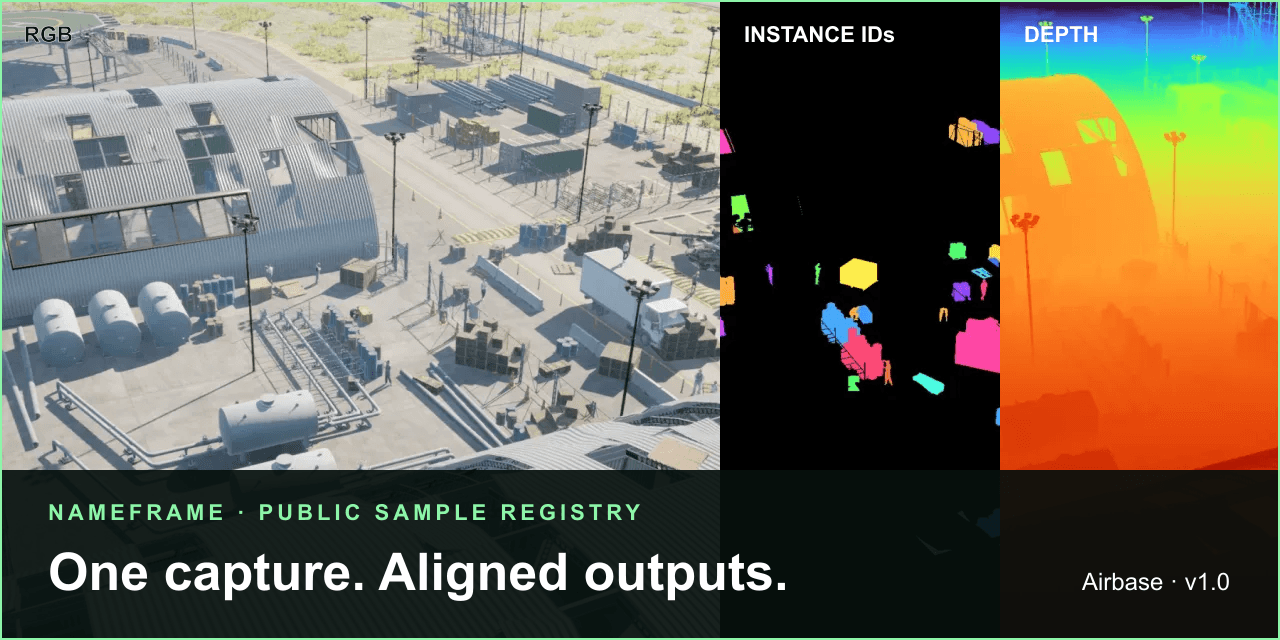
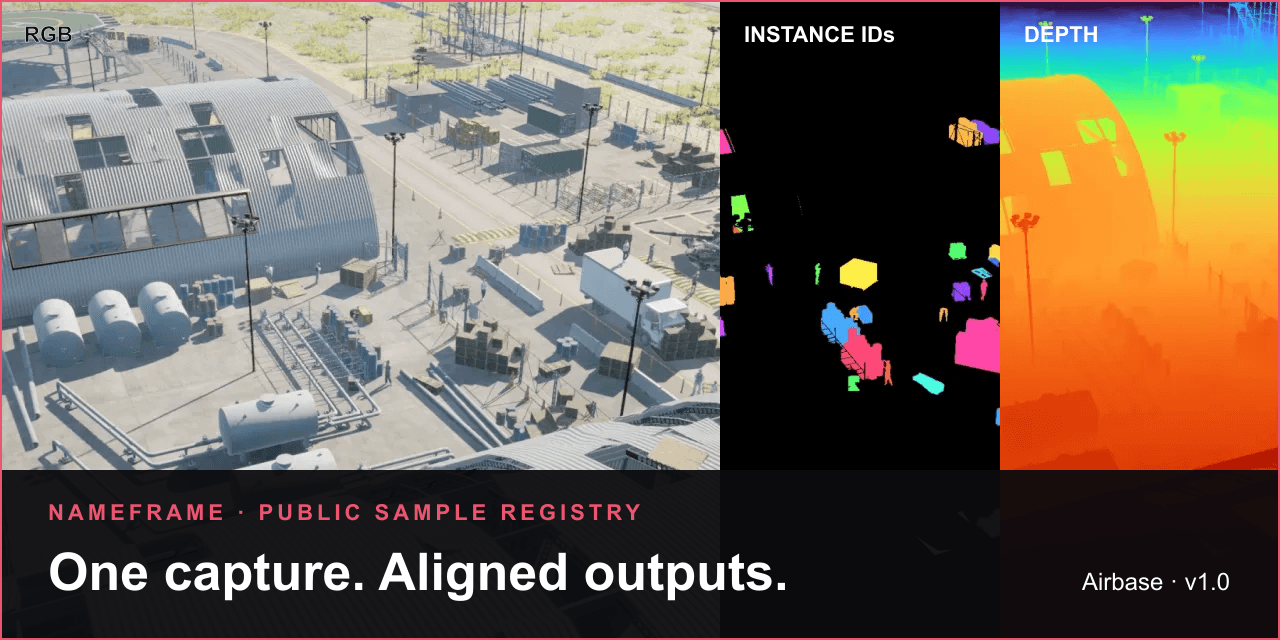
Restore the official NameFrame brand palette

diff --git a/site/src/styles/global.css b/site/src/styles/global.css
@@ -1,28 +1,30 @@
 :root {
-  color-scheme: dark;
-  --ink: #f5f7f2;
-  --muted: #aab5ae;
-  --surface: #0c1713;
-  --surface-2: #12231c;
-  --line: #294238;
-  --accent: #8df5a9;
-  --accent-deep: #173f28;
-  --warning: #ffcb6b;
-  --danger: #ff806e;
+  color-scheme: light;
+  --ink: #16161a;
+  --muted: #5a5a68;
+  --surface: #ffffff;
+  --surface-2: #f7f7f9;
+  --line: #e3e3e9;
+  --accent: #eb5570;
+  --accent-deep: #d63f5d;
+  --accent-soft: #fff0f3;
+  --success: #1f7a4d;
+  --warning: #a96712;
+  --danger: #c9364f;
   --max: 1180px;
   font-family: Inter, ui-sans-serif, system-ui, -apple-system, BlinkMacSystemFont, "Segoe UI", sans-serif;
   font-synthesis: none;
 }
 
 * { box-sizing: border-box; }
-html { background: #08120f; scroll-behavior: smooth; }
-body { margin: 0; background: radial-gradient(circle at 80% 0%, #163126 0, transparent 34rem), #08120f; color: var(--ink); line-height: 1.6; }
+html { background: #ffffff; scroll-behavior: smooth; }
+body { margin: 0; background: radial-gradient(circle at 82% 0%, #fff0f3 0, transparent 35rem), #ffffff; color: var(--ink); line-height: 1.6; }
 img { display: block; max-width: 100%; height: auto; }
 a { color: inherit; text-underline-offset: .18em; }
 a:hover { color: var(--accent); }
 button, a { -webkit-tap-highlight-color: transparent; }
 :focus-visible { outline: 3px solid var(--accent); outline-offset: 4px; border-radius: 3px; }
-.skip-link { position: fixed; z-index: 100; top: .75rem; left: .75rem; padding: .7rem 1rem; background: var(--accent); color: #07110d; transform: translateY(-180%); }
+.skip-link { position: fixed; z-index: 100; top: .75rem; left: .75rem; padding: .7rem 1rem; background: var(--accent); color: #ffffff; transform: translateY(-180%); }
 .skip-link:focus { transform: none; }
 
 .site-header { width: min(calc(100% - 2rem), var(--max)); margin: 0 auto; min-height: 82px; display: flex; align-items: center; gap: 2rem; border-bottom: 1px solid var(--line); }
@@ -32,8 +34,8 @@ button, a { -webkit-tap-highlight-color: transparent; }
 .site-header nav { display: flex; gap: 1.4rem; margin-left: auto; }
 .site-header nav a, .footer-links a { color: var(--muted); text-decoration: none; font-size: .92rem; font-weight: 650; }
 .site-header nav a:hover, .footer-links a:hover { color: var(--ink); }
-.button { display: inline-flex; align-items: center; justify-content: center; padding: .8rem 1.1rem; border: 1px solid var(--accent); border-radius: 999px; color: #07110d; background: var(--accent); font-weight: 780; text-decoration: none; }
-.button:hover { background: #c4ffd2; color: #07110d; }
+.button { display: inline-flex; align-items: center; justify-content: center; padding: .8rem 1.1rem; border: 1px solid var(--accent); border-radius: 999px; color: #ffffff; background: var(--accent); font-weight: 780; text-decoration: none; }
+.button:hover { border-color: var(--accent-deep); background: var(--accent-deep); color: #ffffff; }
 .button-secondary { color: var(--ink); background: transparent; border-color: var(--line); }
 .button-secondary:hover { color: var(--ink); background: var(--surface-2); }
 .button-small { padding: .58rem .9rem; font-size: .88rem; }
@@ -47,43 +49,43 @@ h1, h2, h3 { margin: 0; line-height: 1.06; letter-spacing: -.045em; text-wrap: b
 h1 { max-width: 850px; font-size: clamp(3rem, 7vw, 6.7rem); }
 h2 { font-size: clamp(2rem, 4vw, 3.5rem); }
 h3 { font-size: clamp(1.35rem, 2vw, 1.7rem); }
-.lede { color: #d5ddd8; font-size: clamp(1.05rem, 1.7vw, 1.35rem); max-width: 63ch; }
+.lede { color: var(--muted); font-size: clamp(1.05rem, 1.7vw, 1.35rem); max-width: 63ch; }
 .hero-actions { display: flex; flex-wrap: wrap; gap: .75rem; margin-top: 2rem; }
-.hero-aside { padding: 1.4rem; border: 1px solid var(--line); border-radius: 18px; background: rgba(12, 23, 19, .75); }
+.hero-aside { padding: 1.4rem; border: 1px solid var(--line); border-radius: 18px; background: rgba(255, 255, 255, .86); box-shadow: 0 18px 50px rgba(22, 22, 26, .06); }
 .hero-aside p:first-child { margin-top: 0; }
 .hero-aside p:last-child { margin-bottom: 0; }
 .section { padding: clamp(3.5rem, 7vw, 7rem) 0; }
 .section-head { display: grid; grid-template-columns: 1fr minmax(260px, .7fr); gap: 2rem; align-items: end; margin-bottom: 2.2rem; }
 .section-head > p { margin: 0; color: var(--muted); }
 
-.modality-viewer { width: min(calc(100% - 2rem), var(--max)); margin: 0 auto; display: grid; grid-template-columns: minmax(240px, .34fr) minmax(0, .66fr); overflow: hidden; border: 1px solid var(--line); border-radius: 24px; background: var(--surface); box-shadow: 0 30px 80px rgba(0,0,0,.25); }
+.modality-viewer { width: min(calc(100% - 2rem), var(--max)); margin: 0 auto; display: grid; grid-template-columns: minmax(240px, .34fr) minmax(0, .66fr); overflow: hidden; border: 1px solid var(--line); border-radius: 24px; background: var(--surface); box-shadow: 0 30px 80px rgba(22, 22, 26, .10); }
 .viewer-copy { padding: clamp(1.5rem, 4vw, 3rem); }
 .viewer-copy > p:not(.kicker) { color: var(--muted); }
 .tab-list { display: flex; flex-direction: column; gap: .5rem; margin-top: 2rem; }
 .tab-list button { padding: .8rem 1rem; border: 1px solid var(--line); border-radius: 9px; color: var(--muted); background: transparent; text-align: left; cursor: pointer; font: inherit; font-weight: 700; }
-.tab-list button[aria-selected="true"] { color: #07110d; background: var(--accent); border-color: var(--accent); }
-.viewer-stage { min-height: 470px; background: #010504; display: grid; place-items: center; }
+.tab-list button[aria-selected="true"] { color: #ffffff; background: var(--accent); border-color: var(--accent); }
+.viewer-stage { min-height: 470px; background: #0d0d10; display: grid; place-items: center; }
 .viewer-stage figure { margin: 0; width: 100%; }
 .viewer-stage figure[hidden] { display: none; }
 .viewer-stage img { width: 100%; max-height: 650px; object-fit: contain; }
-.viewer-stage figcaption { padding: .8rem 1rem; color: var(--muted); background: #050b08; font-size: .82rem; }
+.viewer-stage figcaption { padding: .8rem 1rem; color: #a8a8b8; background: #16161b; font-size: .82rem; }
 
 .dataset-grid { display: grid; grid-template-columns: repeat(2, minmax(0, 1fr)); gap: 1.25rem; }
 .filter-bar { display: flex; flex-wrap: wrap; align-items: center; gap: .55rem; margin-bottom: .5rem; }
 .filter-bar > span { margin-right: .35rem; color: var(--muted); font-size: .82rem; font-weight: 750; text-transform: uppercase; letter-spacing: .08em; }
 .filter-bar button { padding: .52rem .8rem; border: 1px solid var(--line); border-radius: 999px; color: var(--muted); background: transparent; cursor: pointer; font: inherit; font-size: .85rem; font-weight: 700; }
-.filter-bar button[aria-pressed="true"] { color: #07110d; border-color: var(--accent); background: var(--accent); }
+.filter-bar button[aria-pressed="true"] { color: #ffffff; border-color: var(--accent); background: var(--accent); }
 .filter-result { margin: 0 0 1.2rem; color: var(--muted); font-size: .85rem; }
 .dataset-card { overflow: hidden; border: 1px solid var(--line); border-radius: 18px; background: var(--surface); }
 .dataset-card[hidden] { display: none; }
-.card-image { display: block; overflow: hidden; aspect-ratio: 16/10; background: #020604; }
+.card-image { display: block; overflow: hidden; aspect-ratio: 16/10; background: #0d0d10; }
 .card-image img { width: 100%; height: 100%; object-fit: cover; transition: transform .3s ease; }
 .card-image:hover img { transform: scale(1.015); }
 .card-body { padding: 1.5rem; }
 .card-body > p { min-height: 3.2em; color: var(--muted); }
 .eyebrow-row { display: flex; align-items: center; justify-content: space-between; gap: 1rem; margin-bottom: .8rem; color: var(--muted); font-size: .78rem; text-transform: uppercase; letter-spacing: .08em; }
 .grade { border: 1px solid var(--line); border-radius: 999px; padding: .25rem .55rem; }
-.grade-a { color: var(--accent); }
+.grade-a { color: var(--success); }
 .grade-c { color: var(--warning); }
 .compact-stats { display: grid; grid-template-columns: repeat(2, 1fr); gap: .8rem; padding: 1rem 0; border-top: 1px solid var(--line); border-bottom: 1px solid var(--line); }
 .compact-stats div { display: flex; flex-direction: column; }
@@ -92,11 +94,11 @@ h3 { font-size: clamp(1.35rem, 2vw, 1.7rem); }
 .text-link { display: inline-block; margin-top: .3rem; padding-top: .75rem; color: var(--accent); font-weight: 750; text-decoration: none; }
 
 .boundary-grid, .format-grid, .quality-grid { display: grid; grid-template-columns: repeat(3, 1fr); gap: 1rem; }
-.panel { padding: 1.5rem; border: 1px solid var(--line); border-radius: 15px; background: rgba(12,23,19,.66); }
+.panel { padding: 1.5rem; border: 1px solid var(--line); border-radius: 15px; background: rgba(255,255,255,.78); }
 .panel h3 { margin-bottom: .75rem; }
 .panel p, .panel li { color: var(--muted); }
 .panel ul { padding-left: 1.2rem; }
-.failure { border-color: #784a3f; background: linear-gradient(135deg, rgba(95,42,33,.26), var(--surface)); }
+.failure { border-color: #efabb7; background: linear-gradient(135deg, #fff0f3, var(--surface)); }
 .failure .status { color: var(--danger); }
 .status { font-size: .75rem; font-weight: 800; text-transform: uppercase; letter-spacing: .1em; }
 
@@ -109,7 +111,7 @@ h3 { font-size: clamp(1.35rem, 2vw, 1.7rem); }
 .prose { max-width: 760px; }
 .prose h2 { margin-top: 2.4rem; font-size: 2rem; }
 .prose h3 { margin-top: 1.8rem; }
-.prose p, .prose li { color: #c6d0ca; }
+.prose p, .prose li { color: var(--muted); }
 .prose code, .hash { overflow-wrap: anywhere; color: var(--accent); font-family: ui-monospace, SFMono-Regular, Consolas, monospace; font-size: .85em; }
 .prose table { display: block; overflow-x: auto; width: 100%; border-collapse: collapse; }
 .prose th, .prose td { padding: .75rem; border-bottom: 1px solid var(--line); text-align: left; }
@@ -119,9 +121,9 @@ h3 { font-size: clamp(1.35rem, 2vw, 1.7rem); }
 .fact-list dt { color: var(--muted); font-size: .75rem; text-transform: uppercase; letter-spacing: .08em; }
 .fact-list dd { margin: .15rem 0 0; font-weight: 700; }
 .download { margin: 1rem 0; padding: 1.2rem; border: 1px solid var(--line); border-radius: 12px; }
-.download-unavailable { border-color: #765f31; }
+.download-unavailable { border-color: #d6a45c; }
 .pill-list { display: flex; flex-wrap: wrap; gap: .45rem; padding: 0; list-style: none; }
-.pill-list li { padding: .35rem .65rem; border: 1px solid var(--line); border-radius: 999px; color: #dce7e0; font-size: .82rem; }
+.pill-list li { padding: .35rem .65rem; border: 1px solid var(--line); border-radius: 999px; color: var(--ink); font-size: .82rem; }
 .callout { padding: 1.2rem 1.4rem; border-left: 4px solid var(--accent); background: var(--surface-2); }
 
 .site-footer { width: min(calc(100% - 2rem), var(--max)); margin: 3rem auto 0; padding: 2.5rem 0; display: grid; grid-template-columns: 1fr auto; gap: 1.5rem; border-top: 1px solid var(--line); color: var(--muted); }
